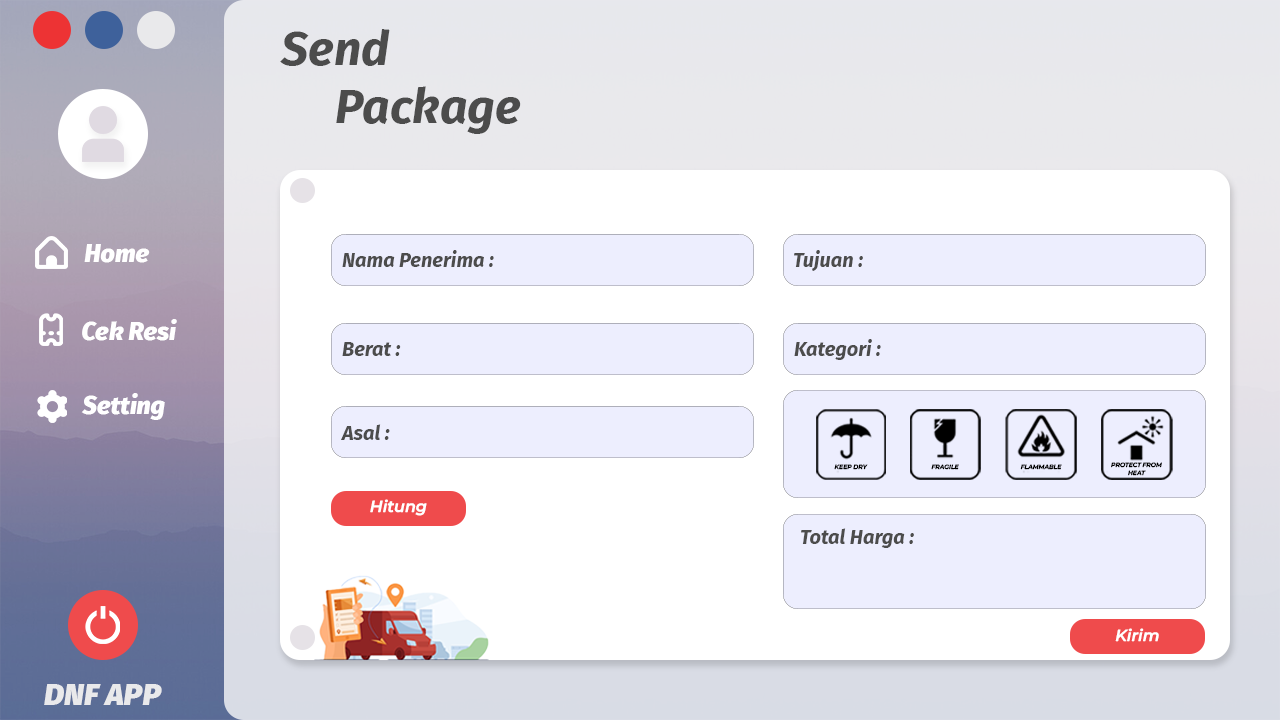
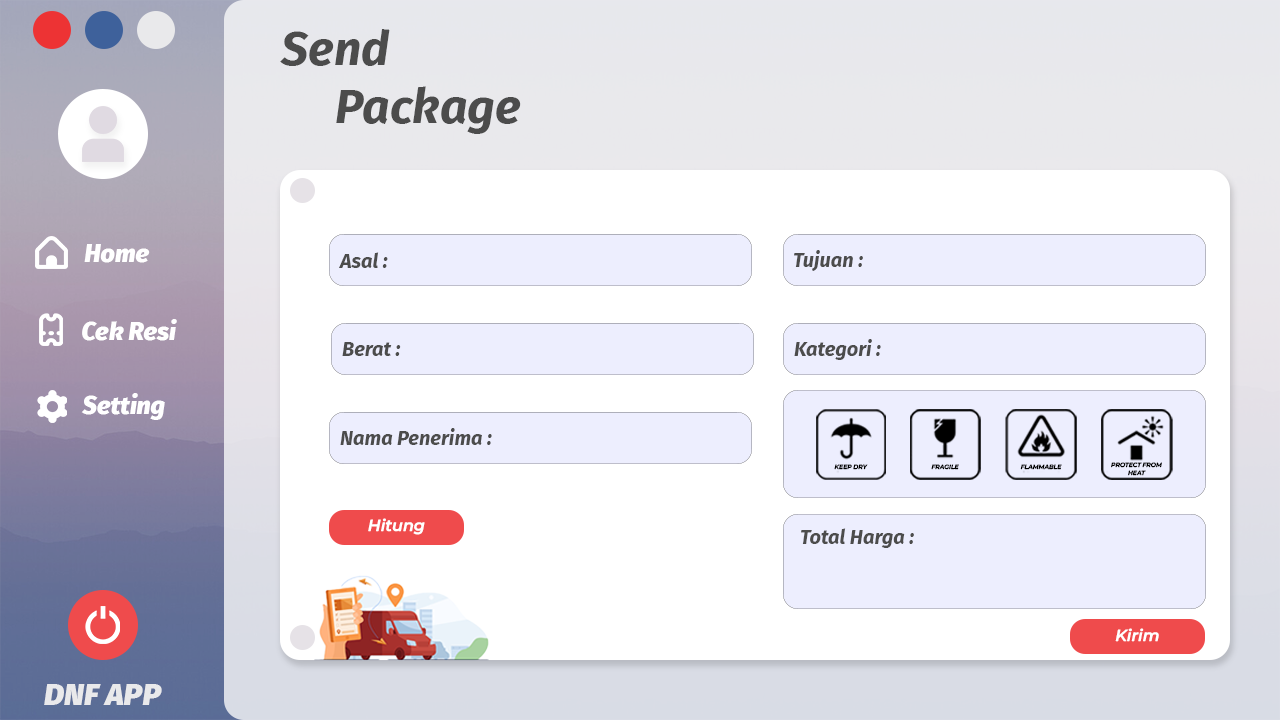
ganti letak doang
tinggal nambahin nama penerima di send package

Changed region(s): [[0.25, 0.6722, 0.375, 0.7639], [0.25, 0.5806, 0.375, 0.6417], [0.25, 0.3361, 0.375, 0.3972]]

diff --git a/DNFApp/src/dnfapp/UserMainMenu.java b/DNFApp/src/dnfapp/UserMainMenu.java
@@ -187,7 +187,7 @@ public class UserMainMenu extends javax.swing.JFrame implements GenerateCity, Ci
                 KirimButtonActionPerformed(evt);
             }
         });
-        getContentPane().add(KirimButton, new org.netbeans.lib.awtextra.AbsoluteConstraints(1060, 610, 135, 35));
+        getContentPane().add(KirimButton, new org.netbeans.lib.awtextra.AbsoluteConstraints(1070, 620, 135, 35));
 
         HomeButton.setIcon(new javax.swing.ImageIcon(getClass().getResource("/images/User_Button_Home_1.png"))); // NOI18N
         HomeButton.setBorderPainted(false);
@@ -260,7 +260,7 @@ public class UserMainMenu extends javax.swing.JFrame implements GenerateCity, Ci
                 CalculateBtnActionPerformed(evt);
             }
         });
-        getContentPane().add(CalculateBtn, new org.netbeans.lib.awtextra.AbsoluteConstraints(350, 400, 135, 35));
+        getContentPane().add(CalculateBtn, new org.netbeans.lib.awtextra.AbsoluteConstraints(330, 510, 135, 35));
         getContentPane().add(PriceLabelSend, new org.netbeans.lib.awtextra.AbsoluteConstraints(810, 550, 380, 60));
 
         PriceLabel.setBackground(new java.awt.Color(237, 238, 254));
@@ -293,7 +293,7 @@ public class UserMainMenu extends javax.swing.JFrame implements GenerateCity, Ci
                 FragileButtonActionPerformed(evt);
             }
         });
-        getContentPane().add(FragileButton, new org.netbeans.lib.awtextra.AbsoluteConstraints(910, 410, 71, 71));
+        getContentPane().add(FragileButton, new org.netbeans.lib.awtextra.AbsoluteConstraints(910, 410, 80, 71));
 
         FlameableButton.setIcon(new javax.swing.ImageIcon(getClass().getResource("/images/User_Button_SendPackage_Flammable.png"))); // NOI18N
         FlameableButton.setBorderPainted(false);
@@ -303,7 +303,7 @@ public class UserMainMenu extends javax.swing.JFrame implements GenerateCity, Ci
                 FlameableButtonActionPerformed(evt);
             }
         });
-        getContentPane().add(FlameableButton, new org.netbeans.lib.awtextra.AbsoluteConstraints(1010, 410, 72, 71));
+        getContentPane().add(FlameableButton, new org.netbeans.lib.awtextra.AbsoluteConstraints(1010, 410, 80, 71));
 
         ProtectButton.setIcon(new javax.swing.ImageIcon(getClass().getResource("/images/User_Button_SendPackage_Protect.png"))); // NOI18N
         ProtectButton.setBorderPainted(false);
@@ -313,7 +313,7 @@ public class UserMainMenu extends javax.swing.JFrame implements GenerateCity, Ci
                 ProtectButtonActionPerformed(evt);
             }
         });
-        getContentPane().add(ProtectButton, new org.netbeans.lib.awtextra.AbsoluteConstraints(1110, 410, 72, 71));
+        getContentPane().add(ProtectButton, new org.netbeans.lib.awtextra.AbsoluteConstraints(1110, 410, 80, 71));
 
         SendPackageBG.setIcon(new javax.swing.ImageIcon(getClass().getResource("/images/User_BG_SendPackage.png"))); // NOI18N
         getContentPane().add(SendPackageBG, new org.netbeans.lib.awtextra.AbsoluteConstraints(0, 0, 1280, 720));
